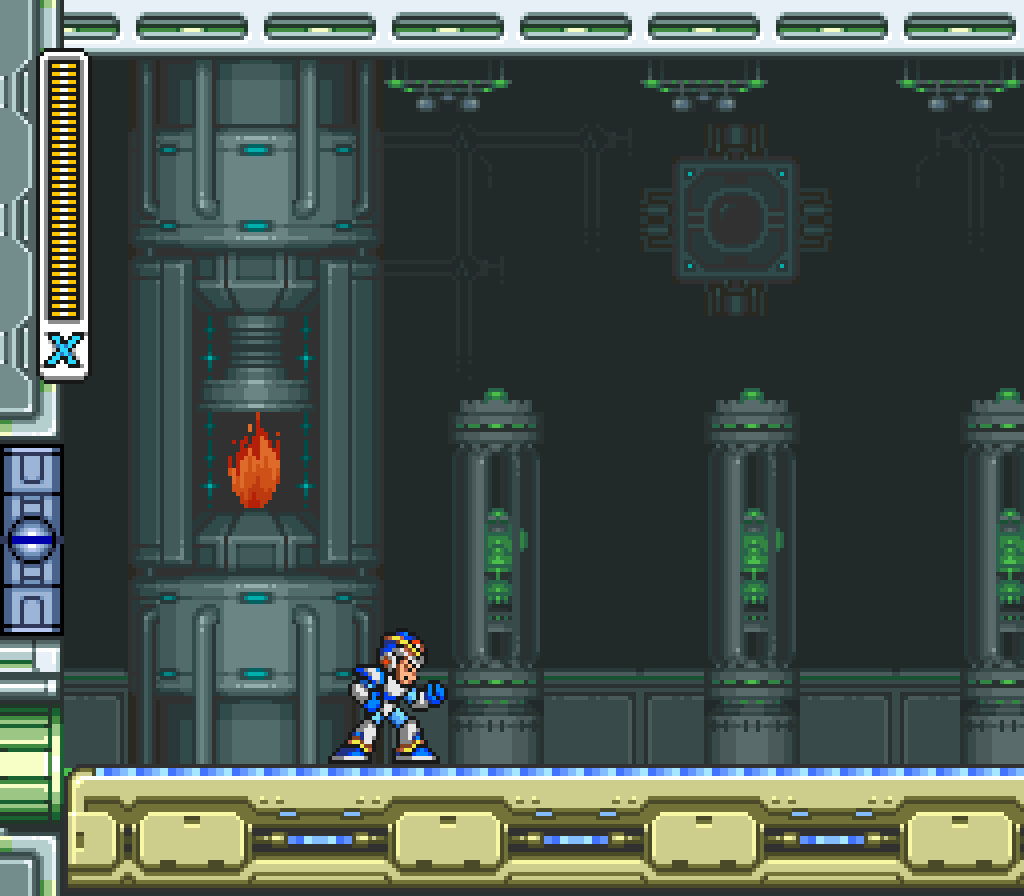
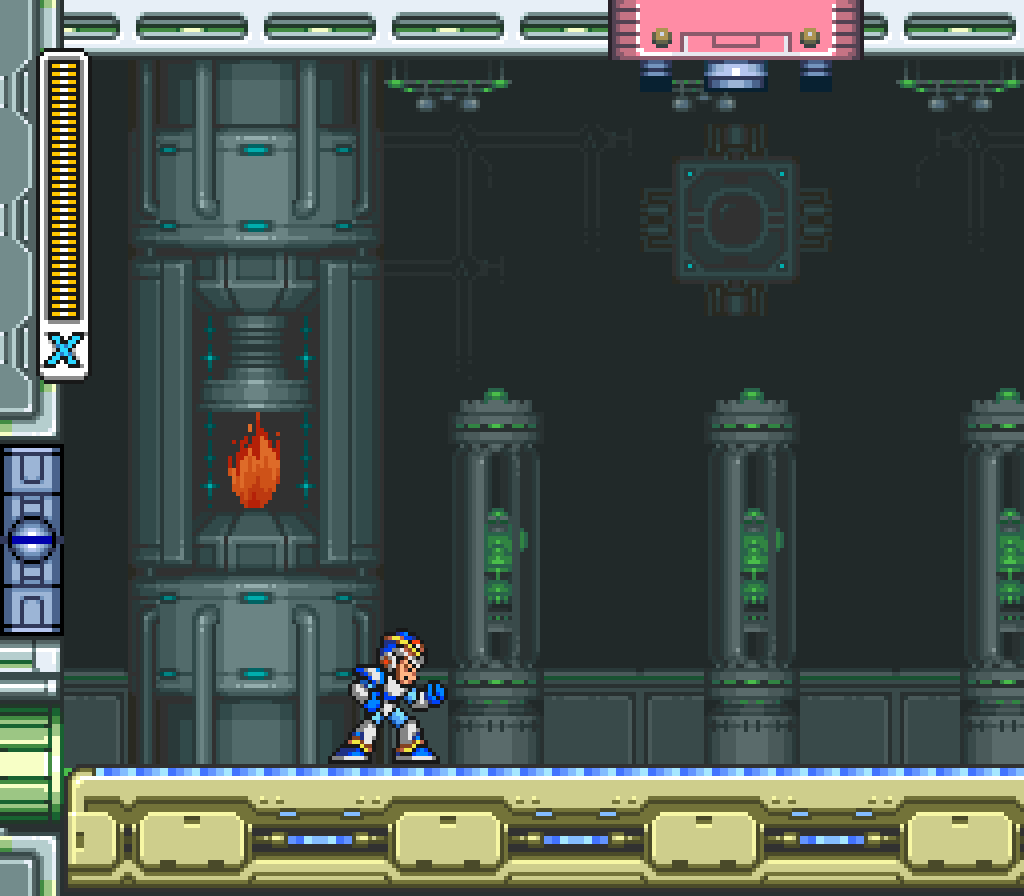
Center Boss Rush entrances and Penguin ceiling handle

Changed region(s): [[0.5938, 0.0, 0.8438, 0.125]]

diff --git a/src/mmx_boss_rush_runtime.c b/src/mmx_boss_rush_runtime.c
@@ -21,6 +21,7 @@
 extern uint8_t g_ram[0x20000];
 static unsigned word(const uint8_t *p) {return p[0]|p[1]<<8;}
 static void put(uint8_t *p,unsigned v) {p[0]=(uint8_t)v;p[1]=(uint8_t)(v>>8);}
+static unsigned entry_x(const uint8_t *r,unsigned seat) {return word(r+0x1e4d)+64+seat*128;}
 static void stack_push(CpuState *cpu,unsigned v,unsigned bytes) {
   while(bytes) {cpu_write8(cpu,0,cpu->S,(uint8_t)(v>>(--bytes*8)));--cpu->S;}
 }
@@ -29,9 +30,9 @@ static unsigned stack_pop(CpuState *cpu,unsigned bytes) {
   return v;
 }
 static bool arena_ready(const uint8_t *r) {
-  /* Reach the expanded room's right side before requesting music and
-   * releasing either boss seat. */
-  unsigned right=r[0x1f7a]==4?0x1e00+MMX_RUSH_MAMMOTH_SCROLL+208:0x1e20;
+  /* Start beneath the room's central hook, with the native follow camera
+   * framing the player near the middle and an entrance on either side. */
+  unsigned right=r[0x1f7a]==4?0x1e00+MMX_RUSH_ARENA_CENTER_X:0x1e20;
   return word(r+0x1e4d)>=0x1e00 && word(r+0xbad)>=right &&
       r[0xbaa]!=0x1a && r[0xbaa]!=0x18 && !r[0xc16];
 }
@@ -186,7 +187,7 @@ static void boss_hook(CpuState *cpu,uint32_t pc) {
     bool body=s.bosses[owner].object==cpu->D;
     if((body && (at==0x01b7bf || at==0x01b81b)) ||
         (!body && at==0x07efd2 && g_ram[cpu->D+10]==0x12)) {
-      unsigned origin=s.camera_x+MMX_RUSH_MAMMOTH_SCROLL+MMX_RUSH_HOOK_SCREEN_X-128;
+      unsigned origin=s.camera_x+MMX_RUSH_ARENA_CENTER_X-128;
       unsigned value=at==0x01b81b?cpu->A-word(g_ram+0x1e60)+origin:origin;
       cpu->A=(uint16_t)value;cpu->_flag_Z=!cpu->A;cpu->_flag_N=cpu->A>>15;
       cpu->P=(cpu->P&~0x82u)|(cpu->_flag_Z?2:0)|(cpu->_flag_N?128:0);
@@ -243,7 +244,13 @@ static void boss_hook(CpuState *cpu,uint32_t pc) {
       /* The room has already been opened for every pair. His stock intro
        * must not add $70 again to its private movement boundary. */
       if(g_ram[0x1f7a]==4) put(g_ram+0x1e60,s.camera_x+MMX_RUSH_MAMMOTH_SCROLL);
-      put(g_ram+cpu->D+5,word(g_ram+0x1e4d)+144);put(g_ram+cpu->D+8,s.camera_y+160);
+      put(g_ram+cpu->D+8,s.camera_y+160);
+    }
+    if(at==0x07925e) {
+      /* Keep his assigned side after the stock arrival adds $40 to X. */
+      cpu->A=(uint16_t)entry_x(g_ram,(unsigned)owner);
+      cpu->_flag_Z=!cpu->A;cpu->_flag_N=cpu->A>>15;
+      cpu->P=(cpu->P&~0x82u)|(cpu->_flag_Z?2:0)|(cpu->_flag_N?128:0);
     }
     /* The factory waits for a player to walk under the entrance platform.
      * Rush starts his arrival on the visible screen after the run trigger. */
@@ -297,7 +304,7 @@ void MmxBossRushHostFrame(void) {
   const unsigned bosses[]={0x849feb,0x84a003,0x84aadd,0x84a677,0x849b03,0x849b43,
     0x848fca,0x848fad,0x9ac7,0xdc36,0xdd47,0xd1ed,0x94d9,0x8c56,0xe68e,0x879258,0x879276,0x8088d6,0x849f19,0x849f2a,0x849f2f,0x849f7e,
     0x8885b5,0x888dab,0x888e0f,0x888d79,0x888d2f,0x888d5e,0x88876a,0x828297,0x82829d,0x83b192,
-    0x8498ff,0x84990d,0x81b7bf,0x81b81b,0x87efd2};
+    0x8498ff,0x84990d,0x81b7bf,0x81b81b,0x87efd2,0x87925e};
   for(unsigned i=0;i<sizeof(bosses)/sizeof(*bosses);++i)
     registered&=interp_bridge_add_pre_opcode_hook(bosses[i],boss_hook);
   static bool warned;
@@ -470,7 +477,7 @@ void MmxBossRushFrame(uint8_t *r,uint16_t input) {
           s.bosses[i].globals[n]=r[globals[n]];
         MmxBossRushSetState(&s);
         memset(r+object,0,64);r[object]=0x81;r[object+10]=kMmxBossRushBosses[id].kind;
-        unsigned x=word(r+0x1e4d)+144+i*48,y=s.camera_y+(id==4?43:96);
+        unsigned x=entry_x(r,i),y=s.camera_y+(id==4?43:96);
         put(r+object+5,x);put(r+object+8,y);put(r+object+0x22,x);put(r+object+0x24,y);
       }
     }

diff --git a/src/mmx_boss_rush.h b/src/mmx_boss_rush.h
@@ -7,9 +7,10 @@ enum { MMX_RUSH_OFF, MMX_RUSH_LOADING, MMX_RUSH_PLAYING, MMX_RUSH_FINISHED,
   MMX_RUSH_PREPARING };
 enum { MMX_RUSH_EMPTY, MMX_RUSH_ENTERING, MMX_RUSH_FIGHTING, MMX_RUSH_DYING };
 enum { MMX_RUSH_NOT_LOADED, MMX_RUSH_ARENA_LOADED, MMX_RUSH_MUSIC_PENDING };
-/* $87:9252 opens Mammoth's camera another $70 pixels. Keep that full room
- * for every pair; the graft's right edge leaves 48 pixels for the boss HUD. */
-enum { MMX_RUSH_MAMMOTH_SCROLL=0x70, MMX_RUSH_HOOK_SCREEN_X=176 };
+/* $87:9252 opens Mammoth's camera another $70 pixels. The encounter trigger
+ * and Penguin's hook share the center of the full 368-pixel chamber. */
+enum { MMX_RUSH_MAMMOTH_SCROLL=0x70,
+  MMX_RUSH_ARENA_CENTER_X=(256+MMX_RUSH_MAMMOTH_SCROLL)/2 };
 typedef struct MmxBossRushBoss {
   uint16_t object, ticks;
   uint8_t id, phase, health, reserved;

diff --git a/src/mmx_renderer.c b/src/mmx_renderer.c
@@ -927,7 +927,7 @@ static uint16_t background(const Ppu *p, const Raster *r, unsigned layer, int x,
   static const unsigned low[] = {8, 7, 1}, high[] = {12, 11, 3};
   if(stage && layer==0 && frame.ram[0x1f7a]==4 &&
       (frame_rush.mode==MMX_RUSH_PLAYING || frame_rush.mode==MMX_RUSH_PREPARING)) {
-    int hook_x=frame_rush.camera_x+MMX_RUSH_MAMMOTH_SCROLL+MMX_RUSH_HOOK_SCREEN_X;
+    int hook_x=frame_rush.camera_x+MMX_RUSH_ARENA_CENTER_X;
     int sx=x+view_camera(frame.ram,0x1e4d)-hook_x+32;
     int sy=y+view_camera(frame.ram,0x1e50)-(int)frame_rush.camera_y;
     int pixel=MmxRenderAssetsRushCeilingPixel((unsigned)sx,(unsigned)sy);

diff --git a/docs/boss-rush.md b/docs/boss-rush.md
@@ -32,12 +32,12 @@ Native title entry:
 ![Boss Rush selected on the native title menu](screenshots/boss-rush-title.png)
 
 The empty room remains available for preparation after entering the final door;
-the player walks to its right edge to begin:
+the player walks to the center of the full room to begin:
 
 ![Left side of the empty Mammoth chamber](screenshots/boss-rush-mammoth-preparation.png)
 
 Penguin and Mammoth in the factory arena, with Penguin's original ceiling mount
-and handle near the right wall:
+and handle centered across the full room:
 
 ![Mammoth arena with Penguin's ceiling mount and native boss meters](screenshots/boss-rush-mammoth-arena.png)
 
@@ -47,7 +47,16 @@ The same arena in local co-op:
 
 Penguin reaches and pulls his relocated native handle:
 
-![Penguin grabbing the handle near the right wall](screenshots/boss-rush-penguin-hook.png)
+![Penguin grabbing the handle at the room's center](screenshots/boss-rush-penguin-hook.png)
+
+Eagle-to-Chameleon replacements in either boss slot, with Chameleon's normal
+palette restored. These native fixtures check body coordinates throughout the
+replacement and combat; the reported persistent-invisibility case has not yet
+been reproduced.
+
+![Chameleon visible after replacing the left boss](screenshots/boss-rush-chameleon-replacement-left.png)
+
+![Chameleon visible after replacing the right boss](screenshots/boss-rush-chameleon-replacement-right.png)
 
 Native font, final count, persistent high score and retry choices:
 
@@ -96,12 +105,12 @@ boss, its children, and both players' projectiles.
 
 The run loads Flame Mammoth's last native checkpoint in the final door corridor.
 Players can prepare weapons there or inside the empty room. Crossing the door
-opens the full Mammoth chamber; reaching its far-right side starts both boss
+opens the full Mammoth chamber; reaching its center starts both boss
 entrances and the battle music. Door, checkpoint and
 camera events remain active during preparation; stock stage enemies are
 filtered before allocation. Because Rush bypasses the stock boss's shared
 player intro, the encounter requests battle song `$1E` through the native dispatcher
-at the right-edge trigger; it uploads the SPC bank and supports the existing
+at the central trigger; it uploads the SPC bank and supports the existing
 MSU1 hook. The call stays inside the guest scheduler so an upload can yield
 across frames. Its saved registers live on the guest stack and its pending
 return is snapshot-owned, with the existing state layout preserved.
@@ -111,10 +120,12 @@ The room retains native scenery,
 metatile collision data and native scrolling camera. The room is 368 pixels wide:
 Mammoth's original `$87:9252` camera extension adds 112 pixels beyond the first
 screen. Rush opens that same range for every pair after the door releases,
-keeping the native gradual limits and player follow. The trigger is 48 pixels
-from the right wall. Replacements enter on the current screen. Kuwanger
+keeping the native gradual limits and player follow. The trigger is 184 pixels
+from the left wall, with the player near the middle of the view. The two
+entrances start at screen X=64 and X=192, on either side of the player.
+Replacements enter on the current screen. Kuwanger
 starts higher to finish his native downward entrance above that floor. Mammoth
-uses a fixed arrival position and bypasses the factory's player-distance gate;
+uses his assigned entrance side and bypasses the factory's player-distance gate;
 his native entrance animation and health-fill states still run.
 The conveyor carries players only while a living Mammoth is present, and its
 palette animation stops with the carry. Preparation and other boss pairs leave
@@ -122,8 +133,7 @@ it stationary. All eight X1 weapons and four shared Sub Tanks start full.
 
 Penguin's ceiling mount is reconstructed from his original room's layout,
 metatiles, graphics resource and palettes at ROM load. It draws at the top
-right side without replacing the factory's VRAM or collision. Its right edge
-leaves 48 pixels before the wall, clear of the boss meters on the final screen.
+center of the entire 368-pixel room without replacing the factory's VRAM or collision.
 His original handle child actor and native jump/landing targets share the same
 world position, so scrolling cannot detach the handle from the mount. The handle
 still animates with Penguin and leaves with his encounter.
@@ -217,6 +227,13 @@ file>` to run those checks in local co-op, including one-player and team deaths.
 `MMX_BOSS_RUSH_MENU_TEST=1` selects a shorter regression that checks Up, Down
 and Select from every title row, then returns through the full logo opening and
 verifies its music bank against the original ROM's title command.
+`MMX_BOSS_RUSH_ARENA_TEST=1` checks the central trigger and visible entrance
+positions, both camera limits during combat, Penguin's actual handle grab,
+and native conveyor carry and stop behavior. `MMX_BOSS_RUSH_CHAMELEON_TEST=1`
+replaces Eagle with Chameleon in each boss slot, follows 1,800 frames of each
+replacement, checks full-room body bounds and restored colors, and captures a
+frame with his body inside the current view. Both fixtures support the same
+solo/local co-op settings as the full suite.
 The same checks verify the native title projectile, second-door controller and
 actual boss music bank upload against the command in the original Penguin
 controller, then exercise Retry and Main Menu. If an upload
